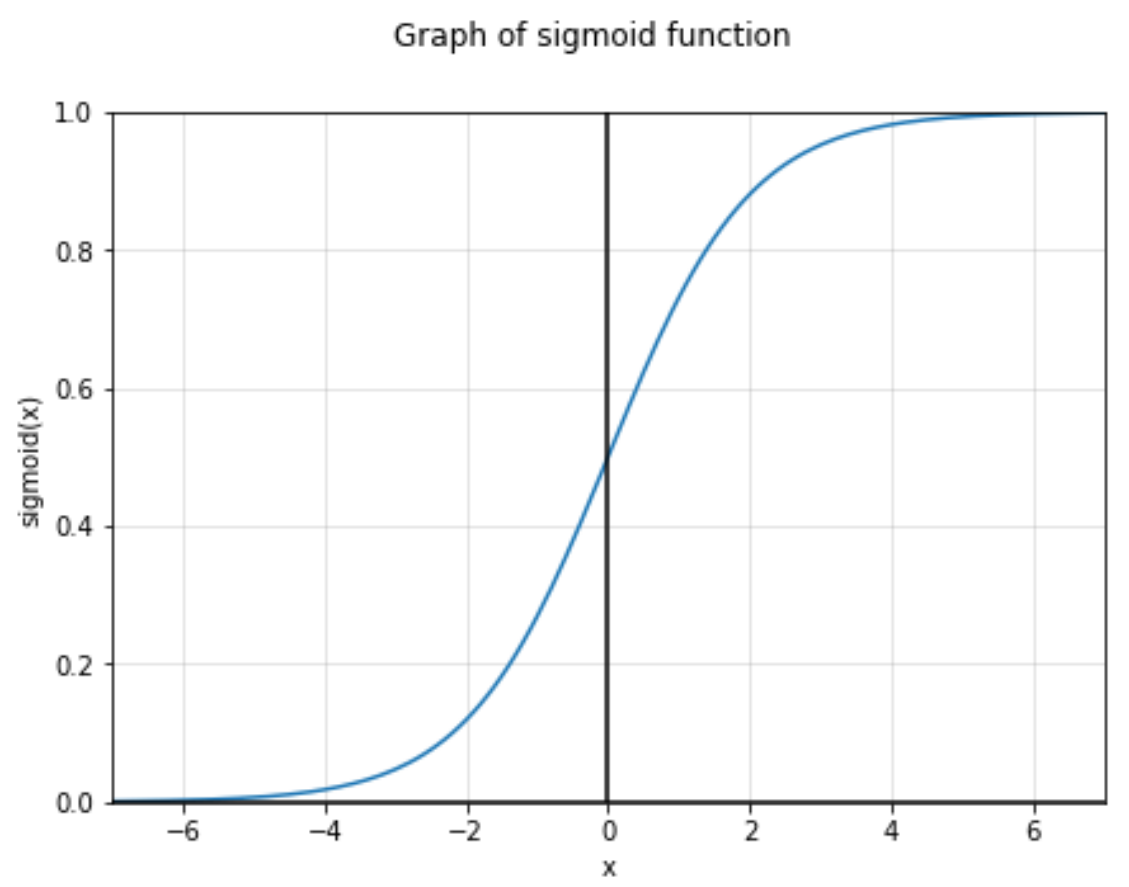
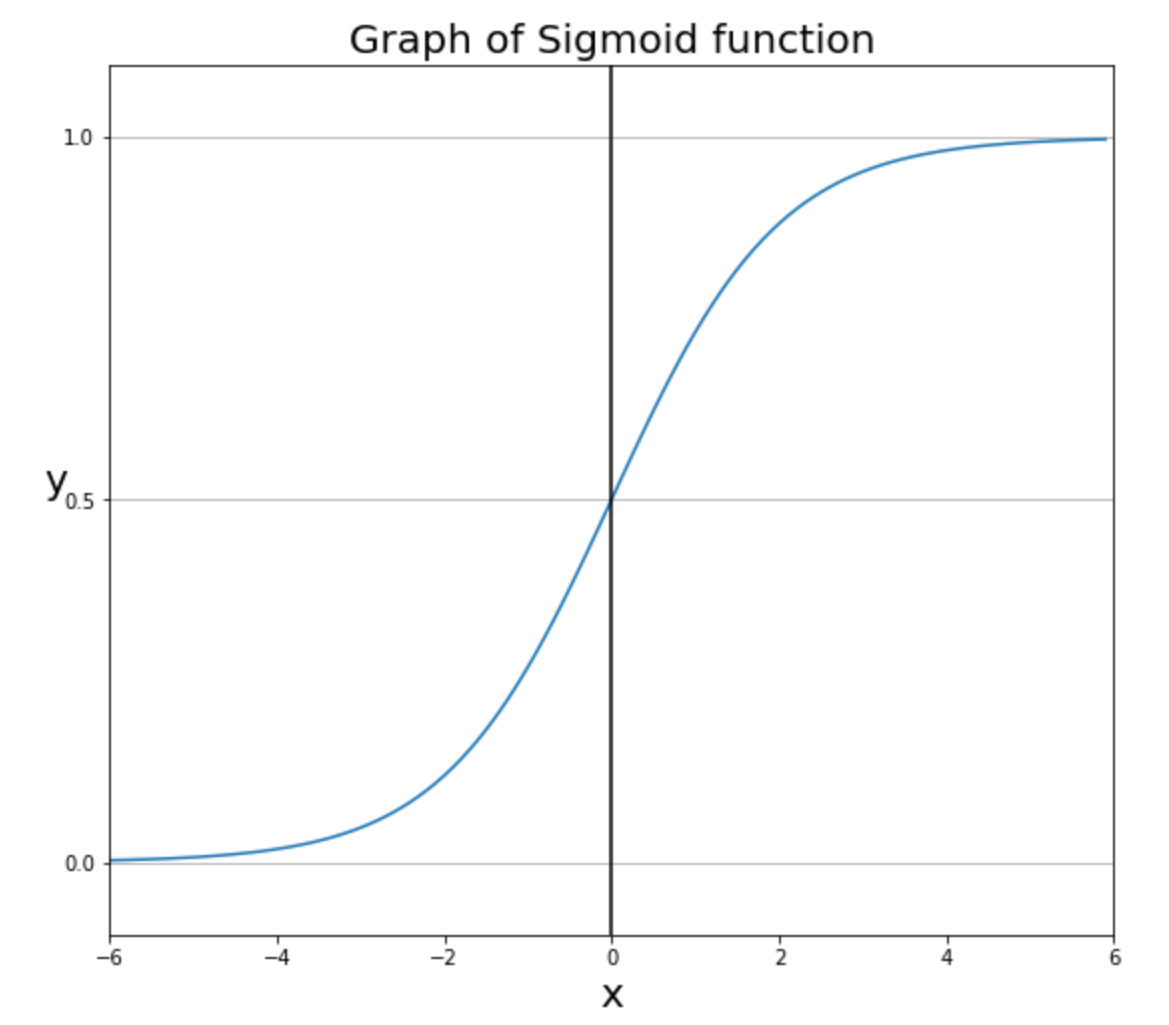
deep_learning

diff --git a/09_Deep_Learning/Lecture_content/Weight_lnitialization.md b/09_Deep_Learning/Lecture_content/Weight_lnitialization.md
@@ -1,4 +1,5 @@
-# Neural Network Optimization method 1 (신경망 최적화 방법 1)
+# Neural Network Optimization method (신경망 최적화 방법)
+
 # 1. 가중치 초기화(Weight lnitialization)
 ![alt text](./Picture/Gradient_Descent_Algorithm.png)
 - Gradient Descent(경사 하강법)를 적용하기 위한 첫 단계는 모든 $\theta$를 초기화하는 것이다.
@@ -19,8 +20,40 @@
 
 ## 3. 부록
 
-### `시그모이드함수(Sigmoid function)` 의미
+### 1. `시그모이드함수(Sigmoid function)` 의미
 **  $a(x)$ = 1 / (1 + $e^{-x}$)
+
+```python
+import numpy as np
+
+# 시그모이드 함수
+def sigmoid(x):
+    return 1 / (1 + np.exp(-x))
+```
+
+```python
+x = np.arange(-6.0, 6.0, 0.1)
+y = sigmoid(x)
+
+# 캔버스 설정
+fig = plt.figure(figsize=(9, 8))
+fig.set_facecolor('white')
+
+plt.plot(x, y)
+plt.ylim(-0.1, 1.1)
+plt.xlim(-6, 6)
+plt.title('Graph of Sigmoid function', fontsize=20)
+plt.xlabel('x', fontsize=20)
+plt.ylabel('y', rotation=0, fontsize=20)
+
+plt.yticks([0.0, 0.5, 1.0])
+plt.axvline(0.0, color='k')
+ax = plt.gca()
+ax.yaxis.grid(True)
+
+plt.show()
+```
+- 결과
 
 ![alt text](./Picture/Sigmoid_function.png)
 
@@ -29,12 +62,12 @@
 - 연속형 데이터이기 때문에, 계단 함수가 끊기지 않는 매끄러운 모양으로 바뀐다.
 - 동시에 이상치가 들어온다 할지라도, 시그모이드 함수는 0과 1로 수렴하므로, 이상치 문제가 해결되면서 연속된 값을 전달할 수 있다.
 
-### `시그모이드함수(Sigmoid function)` 장점
+### `시그모이드 함수(Sigmoid function)` 장점
 
-- 분류는 0과 1로 나뉘며, `출력 값이 어느 값에 가까운지를 통해 어느 분류에 속하는지 쉽게 알 수 있다.
+- 분류는 0과 1로 나뉘며, `출력 값이 어느 값에 가까운지`를 통해 어느 분류에 속하는지 쉽게 알 수 있다.
 - 출력값의 범위가 0~1 사이이며, 매우 매끄러운 곡선을 가지고 있어서, 경사하강법(Gradient Descent)을 실행 할 때 기울기가 급격하게 변해서 발산하는 기울기 폭주(Gradient Exploding)가 발생하지 않는다.
 
-### `시그모이드함수(Sigmoid function)` 단점
+### `시그모이드 함수(Sigmoid function)` 단점
 
 - 핵심 : 기울기 소실 문제, 학습 속도 저하 문제 발생
 
@@ -50,6 +83,78 @@
 - 시그모이드 함수의 출력값은 모두 양수기 때문에 경사하강법을 적용할 때, 그 기울기가 양수거나 음수가 한다.
 - 이는 기울기 업데이트가 지그재그로 변동하는 결과를 가지고 오고, 학습 효울성을 감소시켜 학습에 더 많은 시간이 들어가게 만든다.
 
-### 결론
+### `시그모이드 함수(Sigmoid function)` 결론
 - 출력층에서 시그모이드 함수(Sigmoid function)를 사용하는 것은 상관없으나, 아래로 정보가 계속 흘러가는 은닉층(Hidden layer)에서는 시그모이드 함수를 활성화 함수(Activation function)로 사용해서는 안 된다.
 - 즉, 시그모이드 함수(Sigmoid function)는 이진 분류를 하고자 하는 경우 출력층에서만 사용하는 것을 권장한다.
+- 은닉층(Hidden layer)은 입력층(시작), 출력층(끝) 사이에 있는 부분이다.
+- 은닉층에는 선형 함수와 시그모이드 함수는 사용하지 않는 것이 좋다.
+- 시그모이드 함수는 이진 분류를 하고자 하는 경우 출력층에서만 사용하는 것을 권장한다.
+- 입력층에서 시그모이드 함수를 쓰고자 한다면, 발전형인 하이퍼볼릭 탄젠트 함수(Hyperbolic tanh function)를 사용하는 것을 추천한다.
+
+### 1. `하이퍼볼릭(탄젠트 함수(Hyperbolic Tangent, tanh function)` 의미
+- 하이퍼볼릭 함수는 우리말로 쌍곡선 함수라고 한다.
+- 쌍곡선 함수는 표준 쌍곡선을 매개변수로 표시할 때 나온다.
+- 삼각함수 $tanx$ = $sinx$ / $cosx$에서 나왔다.
+- 쌍곡선 함수에서 쌍곡선 함수에서 쌍곡탄젠트(Hyperbolic tangent)는 $tanhx$ = $sinhx$ / $coshx$를 통해서 구한다.
+
+- $sinhx = \frac{e^x - e^{-x}}{2}$
+- $coshx = \frac{e^x + e^{-x}}{2}$
+- $tanhx = \frac{sinhx}{coshx} = \frac{e^x - e^{-x}}{e^x + e^{-x}}$
+- $sinhx$ =하이퍼볼릭 샤인, 쌍곡 샤인, 신치
+- $coshx$ = 하이퍼볼릭 코샤인, 쌍곡 코샤인, 코시
+- $tanhx$ = 하이퍼볼릭 탄젠트, 탄젠트, 텐치
+
+```python
+import numpy as np
+
+# 하이퍼볼릭 탄젠트
+def tanh(x):
+    p_exp_x = np.exp(x)
+    m_exp_x = np.exp(-x)
+    y = (p_exp_x - m_exp_x) / (p_exp_x + m_exp_x)
+    return y
+```
+
+```python
+import matplotlib.pyplot as plt
+
+x = np.arange(-6.0, 6.0, 0.1)
+y = tanh(x)
+
+# 캔버스 설정
+fig = plt.figure(figsize=(9, 7))  # 캔버스 생성
+fig.set_facecolor('white')  # 캔버스 색상 설정
+
+plt.plot(x, y)
+plt.title('Graph of tanh function', fontsize=20)
+plt.xlabel('x', fontsize=20)
+plt.ylabel('y', fontsize=20, rotation=0)
+
+plt.yticks([-1.0, 0.0, 1.0])  # 특정 축에서 특정 값만 나오도록 설정
+plt.axvline(0.0, color='k')
+ax=plt.gca()
+ax.yaxis.grid(True)  # y축에 있는 모든 숫자에 회색 점근선을 긋도록 설정
+
+plt.show()
+```
+- 결과
+
+![alt text](./Picture/Tanh_function.png)
+
+- 하이퍼볼릭 탄젠트 함수는 -1에서 1 사이의 값을 출력하며, 중앙값도 0이다.
+
+- 시그모이드 함수와 하이퍼볼릭 탄젠트 함수 차이
+
+||시그모이드 함수|하이퍼볼릭 탄젠트 함수|
+|:-----:|:-----:|:-----:|
+|범위|0 ~ 1|-1 ~ 1|
+|중앙값|0.5|0|
+|미분 최댓값|0.3|1|
+
+- 하이퍼볼릭 탄젠트는 중앙값이 0이기 때문에 경사하강법 사용할 때 시그모이드 함수에서 발생하는 편향 이동이 발생하지 않는다.
+- 시그모이드 함수보다 범위가 넓기 때문에 출력값이 변화폭이 더 커서 기울기 소실(Gradient Vanishing)증상이 더 적은 편이다.
+- 기울기 소실(Gradient Vanishing)은 미분 함수에 대하여, 값이 일정한 값 이상 커지는 경우 미분값이 소실되는 현상을 말한다.
+- 은닉층에서 레이어를 쌓고자 한다면, 하이퍼볼릭 탄젠트를 사용하는 것이 효과적이다.
+- 하지만 기울기 소실 현상 문제는 시그모이드함수와 마찬가지로 존재하고 있다.
+- 따라서 `은닉층에서는 (ReLU)함수가 가장 많이 사용된다.`
+
